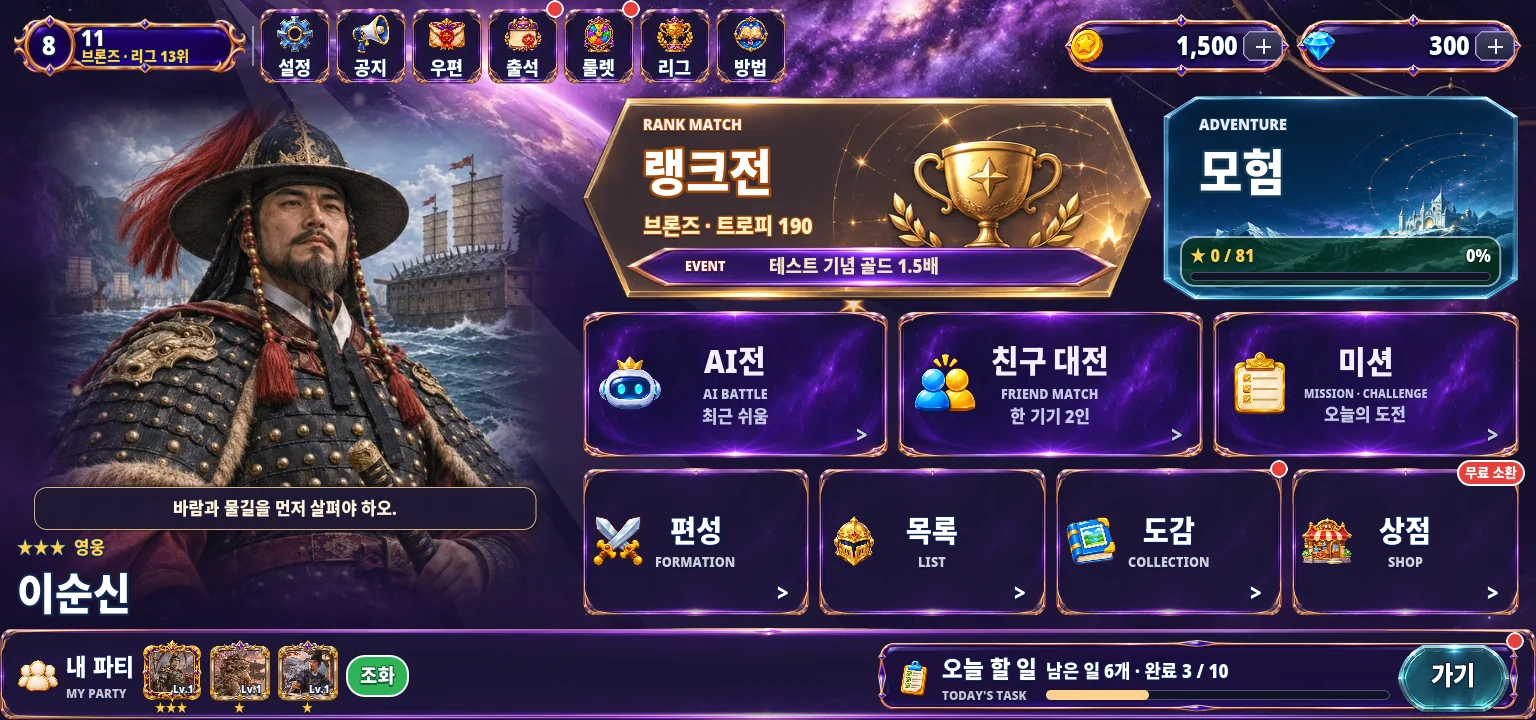
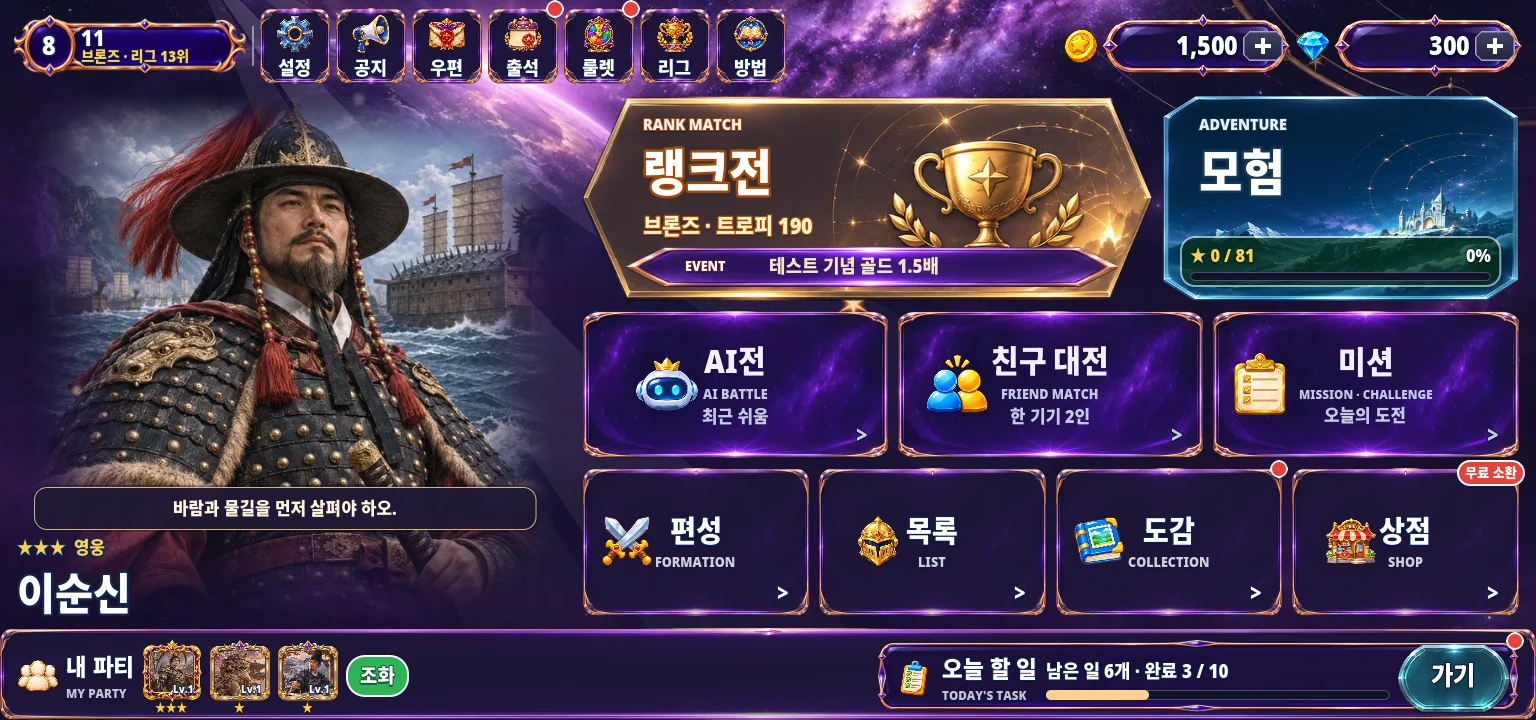
재화·메뉴 아이콘 간격과 버튼 윤곽에 맞춘 광택 수정

diff --git a/CLAUDE.md b/CLAUDE.md
@@ -28,6 +28,7 @@
 
 - 파티 편성의 분류 버튼과 영웅 이름 띠는 분류별 그림을 공유한다. 영웅은 진홍 비단, 위인은 자수정, 신화는 별과 초승달, 근현대는 회로 장식이 들어간 비취 명판이다.
 
+- 재화 아이콘은 캡슐 왼쪽에 두고 로비 메뉴 아이콘은 가운데 정렬된 글자 옆에 둔다. 반짝임은 로비와 대전 버튼 몸통의 투명도를 따른다.
 - 로비의 대표 영웅은 원래 색으로 그리고 대사는 이름표 위에 표시한다. 모험과 랭크전은 같은 제목 배치, 일반 메뉴는 아이콘 옆 가운데 정렬을 쓴다.
 - 로비 랭크전 타일은 영문 제목·한글 제목·트로피를 왼쪽에, 이벤트 띠를 아래에 타일 크기에 비례해 배치한다.
 
